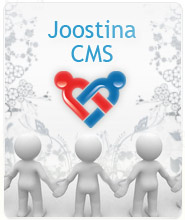
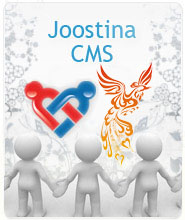
смена версии

Changed region(s): [[0.1351, 0.2727, 0.8378, 0.7636]]

diff --git a/includes/version.php b/includes/version.php
@@ -1,10 +1,11 @@
 <?php
 /***
-* @package Joostina
-* @copyright Авторские права (C) 2008-2010 Joostina team. Все права защищены.
+* @package Joostina 1.3
+* @copyright Авторские права (c) 2008-2010 Joostina team. Все права защищены
 * @license Лицензия http://www.gnu.org/licenses/gpl-2.0.htm GNU/GPL, или help/license.php
 * Joostina! - свободное программное обеспечение распространяемое по условиям лицензии GNU/GPL
 * Для получения информации о используемых расширениях и замечаний об авторском праве, смотрите файл help/copyright.php.
+* @modification (c) 2000-2012 Gold Dragon
  */
 
 // запрет прямого доступа
@@ -19,28 +20,28 @@ class joomlaVersion {
 	var $PRODUCT = 'Joostina';
 	/** @var строка CMS*/
 	var $CMS = 'Joostina';
-	/** @var версия*/
-	var $CMS_ver = '2.3.0';
-	/** @var int Номер основной версии*/
-	var $RELEASE = '2.3.0';
-	/** @var строка  статус разработки*/
-	var $DEV_STATUS = '';
-	/** @var int Подверсия*/
-	var $DEV_LEVEL = '1305';
+	/** @var номер текущей версии */
+	var $CMS_ver = '1.3.2';
+	/** @var номер основной версии*/
+	var $RELEASE = '1.3';
+	/** @var строка статус разработки*/
+	var $DEV_STATUS = 'alfa';
+	/** @var int номер текуПодверсия*/
+	var $DEV_LEVEL = '230';
 	/** @var int Номер сборки*/
-	var $BUILD = '885';
+	var $BUILD = '120217.1224';
 	/** @var string Кодовое имя*/
-	var $CODENAME = 'Fenix';
+	var $CODENAME = 'Phoenix';
 	/** @var string Дата*/
-	var $RELDATE = '26:10:2011';
+	var $RELDATE = '17.02.2012';
 	/** @var string Время*/
-	var $RELTIME = '01:57';
+	var $RELTIME = '12:24';
 	/** @var string Временная зона*/
-	var $RELTZ = '+5 GMT';
+	var $RELTZ = '+3 GMT';
 	/** @var string Текст авторских прав*/
 	var $COPYRIGHT = 'Авторские права &copy; 2007-2011 Joostina Team. Все права защищены.';
 	/** @var string URL*/
-	var $URL = '<a href="http://www.joostina.ru" target="_blank" title="Система создания и управления сайтами Joostina CMS">Joostina!</a> - бесплатное и свободное программное обеспечение для создания сайтов, распространяемое по лицензии GNU/GPL.';
+	var $URL = '<a href="http://joostinadev.ru" target="_blank" title="Система создания и управления сайтами Joostina CMS">Joostina!</a> - бесплатное и свободное программное обеспечение для создания сайтов, распространяемое по лицензии GNU/GPL.';
 	/** @var string для реального использования сайта установите = 1 для демонстраций = 0: 1 используется по умолчанию*/
 	var $SITE = 1;
 	/** @var string Whether site has restricted functionality mostly used for demo sites: 0 is default*/
@@ -48,7 +49,7 @@ class joomlaVersion {
 	/** @var string Whether site is still in development phase (disables checks for /installation folder) - should be set to 0 for package release: 0 is default*/
 	var $SVN = 0;
 	/** @var string ссылки на сайты поддержки*/
-	var $SUPPORT = 'Поддержка: <a href="http://www.joostina.ru" target="_blank" title="Официальный сайт CMS Joostina">www.joostina.ru</a> | <a href="http://www.joomlaportal.ru" target="_blank" title="Joomla! CMS по-русски">www.joomlaportal.ru</a> | <a href="http://www.joom.ru" target="_blank" title="Русский дом Joomla">www.joom.ru</a> | <a href="http://www.joomla.ru" target="_blank" title="Бесплатная система управления сайтом Joomla!">www.joomla.ru</a>';
+	var $SUPPORT = 'Поддержка: <a href="http://joostinadev.ru" target="_blank" title="Официальный сайт CMS Joostina">www.joostinadev.ru</a> | <a href="http://wiki.joostinadev.ru" target="_blank" title="Полный WIKI-справочник по CMS Joostina!">wiki.joostinadev.ru</a> | <a href="http://www.joomlaportal.ru" target="_blank" title="Joomla! CMS по-русски">www.joomlaportal.ru</a> |';
 	/** * @return string Длинный формат версии */
 	function getLongVersion() {
 		return $this->CMS.' '.$this->RELEASE.'. '.$this->CMS_ver.' [ '.$this->CODENAME.' ] '.$this->RELDATE.' '.$this->RELTIME.' '.$this->RELTZ;
